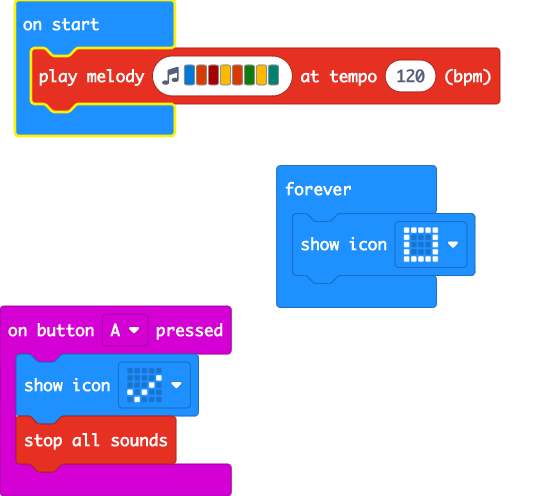
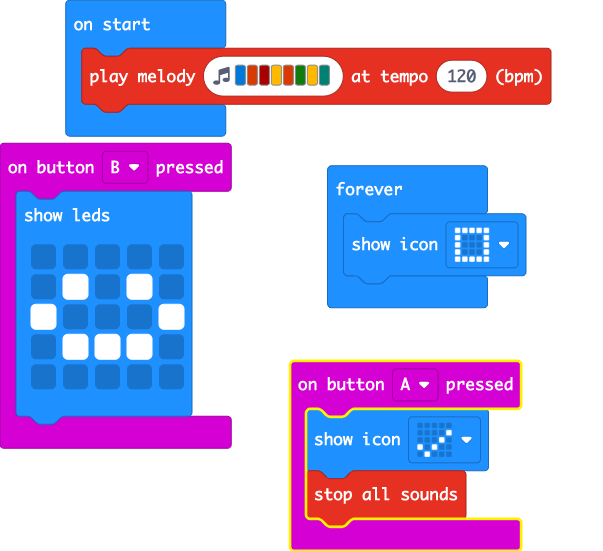
Update main.blocks, main.ts

diff --git a/main.ts b/main.ts
@@ -2,6 +2,15 @@ input.onButtonPressed(Button.A, function () {
     basic.showIcon(IconNames.Yes)
     music.stopAllSounds()
 })
+input.onButtonPressed(Button.B, function () {
+    basic.showLeds(`
+        . . . . .
+        . # . # .
+        # . . . #
+        . # # # .
+        . . . . .
+        `)
+})
 music.playMelody("E B C5 A B G A F ", 120)
 basic.forever(function () {
     basic.showIcon(IconNames.Square)
